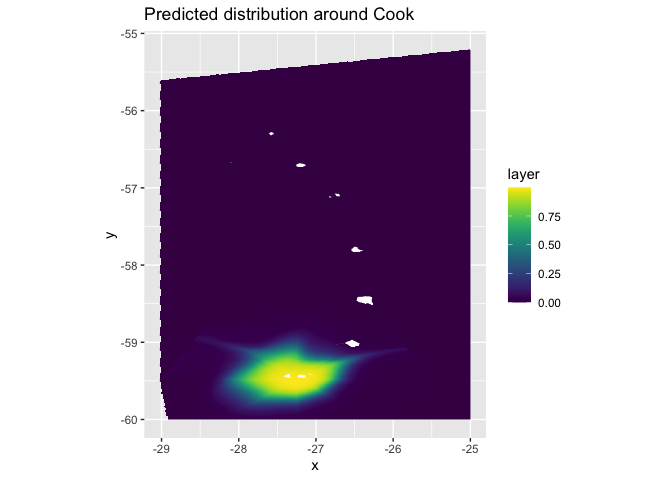
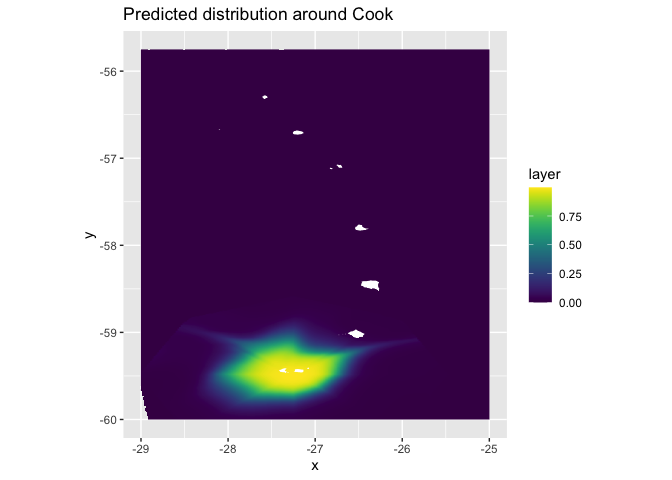
Initial commit

diff --git a/6_Predictions.md b/6_Predictions.md
@@ -81,35 +81,17 @@ spatialpolygons_to_df <- function(sp) {
   sp.df = plyr::join(sp.points, sp@data, by="id")
 }
 
-# This is the entire extent of the MPA around SG and SSI
-SGSSI_MPA <- readOGR("MPA/SG_MPA/sg_mpa.shp") %>% 
-  spTransform(., crs("+init=epsg:4326"))
-```
+# # This is the entire extent of the MPA around SG and SSI
+# SGSSI_MPA <- readOGR("MPA/SG_MPA/sg_mpa.shp") %>% 
+#   spTransform(., crs("+init=epsg:4326"))
+# #plot(SGSSI_MPA)
+# SGSSI_MPA.df <- spatialpolygons_to_df(SGSSI_MPA)
 
-    ## OGR data source with driver: ESRI Shapefile 
-    ## Source: "/Users/gemmaclucas/GitHub/CHPE_Tracking_South_Sandwich_Islands/MPA/SG_MPA/sg_mpa.shp", layer: "sg_mpa"
-    ## with 1 features
-    ## It has 1 fields
-    ## Integer64 fields read as strings:  Id
-
-``` r
-#plot(SGSSI_MPA)
-SGSSI_MPA.df <- spatialpolygons_to_df(SGSSI_MPA)
-
-# CCAMLR management areas
-CCAMLR <- readOGR("MPA/Ccamlr_zones/Ccamlr_zones.shp") %>% 
-  spTransform(., crs("+init=epsg:4326"))
-```
-
-    ## OGR data source with driver: ESRI Shapefile 
-    ## Source: "/Users/gemmaclucas/GitHub/CHPE_Tracking_South_Sandwich_Islands/MPA/Ccamlr_zones/Ccamlr_zones.shp", layer: "Ccamlr_zones"
-    ## with 4 features
-    ## It has 3 fields
-    ## Integer64 fields read as strings:  id
-
-``` r
-#plot(CCAMLR)
-CCAMLR.df <- spatialpolygons_to_df(CCAMLR)
+# # CCAMLR management areas
+# CCAMLR <- readOGR("MPA/Ccamlr_zones/Ccamlr_zones.shp") %>% 
+#   spTransform(., crs("+init=epsg:4326"))
+# #plot(CCAMLR)
+# CCAMLR.df <- spatialpolygons_to_df(CCAMLR)
 
 # 50 km no-take zone around SSI
 NoTake_50km <- readOGR("MPA/sg_mpa_notake_ssi50km/sg_mpa_notake_ssi50km.shp") %>% 
@@ -126,63 +108,29 @@ NoTake_50km <- readOGR("MPA/sg_mpa_notake_ssi50km/sg_mpa_notake_ssi50km.shp") %>
 #plot(NoTake_50km)
 NoTake_50km.df <- spatialpolygons_to_df(NoTake_50km)
 
-# 50 km no-take zone around SSI trench
-NoTake_Trench50km <- readOGR("MPA/sg_mpa_notake_ssitrench50km/sg_mpa_notake_ssitrench50km.shp") %>% 
-  spTransform(., crs("+init=epsg:4326"))
-```
+# # 50 km no-take zone around SSI trench
+# NoTake_Trench50km <- readOGR("MPA/sg_mpa_notake_ssitrench50km/sg_mpa_notake_ssitrench50km.shp") %>% 
+#   spTransform(., crs("+init=epsg:4326"))
+# #plot(NoTake_Trench50km)
+# NoTake_Trench50km.df <- spatialpolygons_to_df(NoTake_Trench50km)
 
-    ## OGR data source with driver: ESRI Shapefile 
-    ## Source: "/Users/gemmaclucas/GitHub/CHPE_Tracking_South_Sandwich_Islands/MPA/sg_mpa_notake_ssitrench50km/sg_mpa_notake_ssitrench50km.shp", layer: "sg_mpa_notake_ssitrench50km"
-    ## with 1 features
-    ## It has 2 fields
+# # No-take zone south of 60 South
+# NoTake_60South <- readOGR("MPA/sg_mpa_notake_s60s/sg_mpa_notake_s60s.shp") %>% 
+#   spTransform(., crs("+init=epsg:4326"))
+# #plot(NoTake_60South)
+# NoTake_60South.df <- spatialpolygons_to_df(NoTake_60South)
 
-``` r
-#plot(NoTake_Trench50km)
-NoTake_Trench50km.df <- spatialpolygons_to_df(NoTake_Trench50km)
+# # Pelagic closed areas (just SSI)
+# Pelagic_closed <- readOGR("MPA/sg_mpa_pelagic_closed_areas/sg_mpa_pelagic_closed_areas.shp") %>% 
+#   spTransform(., crs("+init=epsg:4326"))
+# #plot(Pelagic_closed)
+# Pelagic_closed.df <- spatialpolygons_to_df(Pelagic_closed)
 
-# No-take zone south of 60 South
-NoTake_60South <- readOGR("MPA/sg_mpa_notake_s60s/sg_mpa_notake_s60s.shp") %>% 
-  spTransform(., crs("+init=epsg:4326"))
-```
-
-    ## OGR data source with driver: ESRI Shapefile 
-    ## Source: "/Users/gemmaclucas/GitHub/CHPE_Tracking_South_Sandwich_Islands/MPA/sg_mpa_notake_s60s/sg_mpa_notake_s60s.shp", layer: "sg_mpa_notake_s60s"
-    ## with 1 features
-    ## It has 1 fields
-    ## Integer64 fields read as strings:  Id
-
-``` r
-#plot(NoTake_60South)
-NoTake_60South.df <- spatialpolygons_to_df(NoTake_60South)
-
-# Pelagic closed areas (just SSI)
-Pelagic_closed <- readOGR("MPA/sg_mpa_pelagic_closed_areas/sg_mpa_pelagic_closed_areas.shp") %>% 
-  spTransform(., crs("+init=epsg:4326"))
-```
-
-    ## OGR data source with driver: ESRI Shapefile 
-    ## Source: "/Users/gemmaclucas/GitHub/CHPE_Tracking_South_Sandwich_Islands/MPA/sg_mpa_pelagic_closed_areas/sg_mpa_pelagic_closed_areas.shp", layer: "sg_mpa_pelagic_closed_areas"
-    ## with 9 features
-    ## It has 3 fields
-
-``` r
-#plot(Pelagic_closed)
-Pelagic_closed.df <- spatialpolygons_to_df(Pelagic_closed)
-
-# Benthic closed areas (includes SG, not just SSI)
-Benthic_closed <- readOGR("MPA/sg_mpa_benthic_closed_areas/sg_mpa_benthic_closed_areas.shp") %>% 
-  spTransform(., crs("+init=epsg:4326"))
-```
-
-    ## OGR data source with driver: ESRI Shapefile 
-    ## Source: "/Users/gemmaclucas/GitHub/CHPE_Tracking_South_Sandwich_Islands/MPA/sg_mpa_benthic_closed_areas/sg_mpa_benthic_closed_areas.shp", layer: "sg_mpa_benthic_closed_areas"
-    ## with 12 features
-    ## It has 2 fields
-    ## Integer64 fields read as strings:  id
-
-``` r
-#plot(Benthic_closed)
-Benthic_closed.df <- spatialpolygons_to_df(Benthic_closed)
+# # Benthic closed areas (includes SG, not just SSI)
+# Benthic_closed <- readOGR("MPA/sg_mpa_benthic_closed_areas/sg_mpa_benthic_closed_areas.shp") %>% 
+#   spTransform(., crs("+init=epsg:4326"))
+# #plot(Benthic_closed)
+# Benthic_closed.df <- spatialpolygons_to_df(Benthic_closed)
 ```
 
 ## 1\. Predict around Saunders to check that the distribution looks ok
@@ -442,7 +390,7 @@ starting point.
 ``` r
 SSI_bath_WGS84 <- raster("ssi_geotif/full_ssi18a.tif") %>% 
   projectRaster(., crs=crs("+init=epsg:4326")) %>% 
-  crop(., c(-30, -25, -60, -55))
+  crop(., c(-29, -25, -60, -55.75))
 
 # Read in shapefile for land
 SSI_WGS84 <- readOGR("Seamask.shp") %>% 
@@ -509,13 +457,13 @@ projectRaster(wMeanSST_resampled, crs = CRS("+proj=laea +lon_0=-26 +lat_0=-58 +u
 ```
 
     ## class      : RasterLayer 
-    ## dimensions : 2827, 1563, 4418601  (nrow, ncol, ncell)
-    ## resolution : 206, 200  (x, y)
-    ## extent     : -256872, 65105.97, -230376.5, 335023.5  (xmin, xmax, ymin, ymax)
+    ## dimensions : 2395, 1242, 2974590  (nrow, ncol, ncell)
+    ## resolution : 204, 200  (x, y)
+    ## extent     : -189433.8, 63934.23, -227522.8, 251477.2  (xmin, xmax, ymin, ymax)
     ## crs        : +proj=laea +lon_0=-26 +lat_0=-58 +units=m +ellps=WGS84 
     ## source     : memory
     ## names      : layer 
-    ## values     : 0.699416, 3.820712  (min, max)
+    ## values     : 0.6992419, 3.332532  (min, max)
 
 ``` r
 long <- seq(-256872 , 65105.97, 1000) #first minimum longitude in m, then max, 1000 is 1km
@@ -602,6 +550,8 @@ plot_predicted_distribution <- function(raster, colony_name) {
 ```
 
 ### Run for each colony
+
+Plots turned off for now to reduce run time.
 
 ``` r
 # colony_codes <- c("CAND", "BRIS")
@@ -742,6 +692,51 @@ ggplot() +
 
 ![](6_Predictions_files/figure-gfm/unnamed-chunk-22-2.png)<!-- -->
 
+With contour lines
+
+``` r
+marmap_dat <- marmap::as.bathy(mask)
+```
+
+    ## Registered S3 methods overwritten by 'adehabitatMA':
+    ##   method                       from
+    ##   print.SpatialPixelsDataFrame sp  
+    ##   print.SpatialPixels          sp
+
+``` r
+autoplot(marmap_dat, geom=c("contour"), coast = FALSE, colour="grey50", size=0.1) + 
+  ylab("Latitude") +
+  xlab("Longitude") +
+  geom_tile(data = r3_df , aes(x = x, y = y, fill = layer)) + 
+  scale_fill_gradientn(colours=c("#47897800","#478978FF"), 
+                       breaks = c(0.0, 0.25, 0.5, 0.75, 1.0), 
+                       labels = c(0.0, 0.25, 0.5, 0.75, 1.0)) +
+  # scale_fill_gradientn(colours=c("#00336600","#0033668A")) +
+  geom_polygon(data = NoTake_50km.df %>% filter(hole == FALSE), 
+               aes(x = long, y = lat, group = group), fill = NA, colour = "#EE7674", linetype = "twodash") +
+  geom_polygon(data = SSI_polygons.df, aes(x = long, y = lat, group = group), fill = "grey30", colour = "grey30") +
+  #ggtitle(paste0("Probability of occurrence around all islands")) +
+  labs(fill = "Probability of occurrence") +
+  #coord_fixed() +
+  coord_quickmap() +
+  xlab("Longitude") +
+  ylab("Latitude") +
+  theme(panel.background = element_rect(fill = "white", colour = "grey30"))
+```
+
+    ## Coordinate system already present. Adding new coordinate system, which will replace the existing one.
+
+    ## Warning: Removed 10666 rows containing non-finite values (stat_contour).
+
+![](6_Predictions_files/figure-gfm/unnamed-chunk-23-1.png)<!-- -->
+
+``` r
+ggsave(filename = "Figures/Figure4a_PofOccurrence.pdf", dpi = 300, device = "pdf",
+       height = 5, width = 5, units = "in")
+```
+
+    ## Warning: Removed 10666 rows containing non-finite values (stat_contour).
+
 ### Calculate weighted distributions for each island
 
 This uses the single island predicted distributions calculated above.
@@ -758,7 +753,7 @@ importance <- function(x) {
   col / cellStats(col, stat = "sum")
 }
 
-ZAV_expected <- importance("ZAV") * 1000000 * 2 # Convey = c. 1 million, Lynch = 600,000, double for number of individuals, not pairs
+ZAV_expected <- importance("ZAV") * 600000 * 2 # Convey = c. 1 million, Lynch = 600,000, double for number of individuals, not pairs
 VIS_expected <- importance("VIS") * 185000 * 2 # Lynch
 CAND_expected <- importance("CAND") * 205000 * 2 # Lynch
 VIND_expected <- importance("VIND") * 95000 * 2 # Lynch
@@ -804,7 +799,7 @@ Plotting with MPA bits and bobs.
 ``` r
 ggplot() +
   geom_tile(data = stack_sum_df , aes(x = x, y = y, fill = layer)) + 
-  scale_fill_gradientn(colours=c("#FFFFFFFF","#9a004c")) +
+  scale_fill_gradientn(colours=c("#FFFFFFFF","#8B95C9")) +
   #geom_polygon(data = Pelagic_closed.df, aes(x = long, y = lat, group = group), fill = NA, colour = "grey80") +
   #geom_polygon(data = Benthic_closed.df, aes(x = long, y = lat, group = group), fill = NA, colour = "grey80") +
   geom_polygon(data = NoTake_50km.df, aes(x = long, y = lat, group = group), fill = NA, colour = "grey60") +
@@ -819,6 +814,37 @@ ggplot() +
   ylim(c(-60, -55.5))
 ```
 
-    ## Warning: Removed 78172 rows containing missing values (geom_tile).
+![](6_Predictions_files/figure-gfm/unnamed-chunk-26-1.png)<!-- -->
 
-![](6_Predictions_files/figure-gfm/unnamed-chunk-25-1.png)<!-- -->
+``` r
+autoplot(marmap_dat, geom=c("contour"), coast = FALSE, colour="grey50", size=0.1) +
+  ylab("Latitude") +
+  xlab("Longitude") +
+  geom_tile(data = stack_sum_df, aes(x = x, y = y, fill = layer)) +
+  scale_fill_gradientn(colours=c("#8B95C900","#8B95C9FF")) +
+  # scale_fill_gradientn(colours=c("#00336600","#0033668A")) +
+  geom_polygon(data = NoTake_50km.df %>% filter(hole == FALSE), 
+               aes(x = long, y = lat, group = group), fill = NA, colour = "#EE7674",
+               linetype = "twodash") +
+  geom_polygon(data = SSI_polygons.df, aes(x = long, y = lat, group = group), fill = "grey30", colour = "grey30") +
+  #ggtitle(paste0("Probability of occurrence around all islands")) +
+  labs(fill = "Penguins per km^2") +
+  #coord_fixed() +
+  coord_quickmap() +
+  xlab("Longitude") +
+  ylab("Latitude") +
+  theme(panel.background = element_rect(fill = "white", colour = "grey30"))
+```
+
+    ## Coordinate system already present. Adding new coordinate system, which will replace the existing one.
+
+    ## Warning: Removed 10666 rows containing non-finite values (stat_contour).
+
+![](6_Predictions_files/figure-gfm/unnamed-chunk-27-1.png)<!-- -->
+
+``` r
+ggsave(filename = "Figures/Figure4a_WeightedPofOccurrence.pdf", dpi = 300, device = "pdf",
+       height = 5, width = 5, units = "in")
+```
+
+    ## Warning: Removed 10666 rows containing non-finite values (stat_contour).
